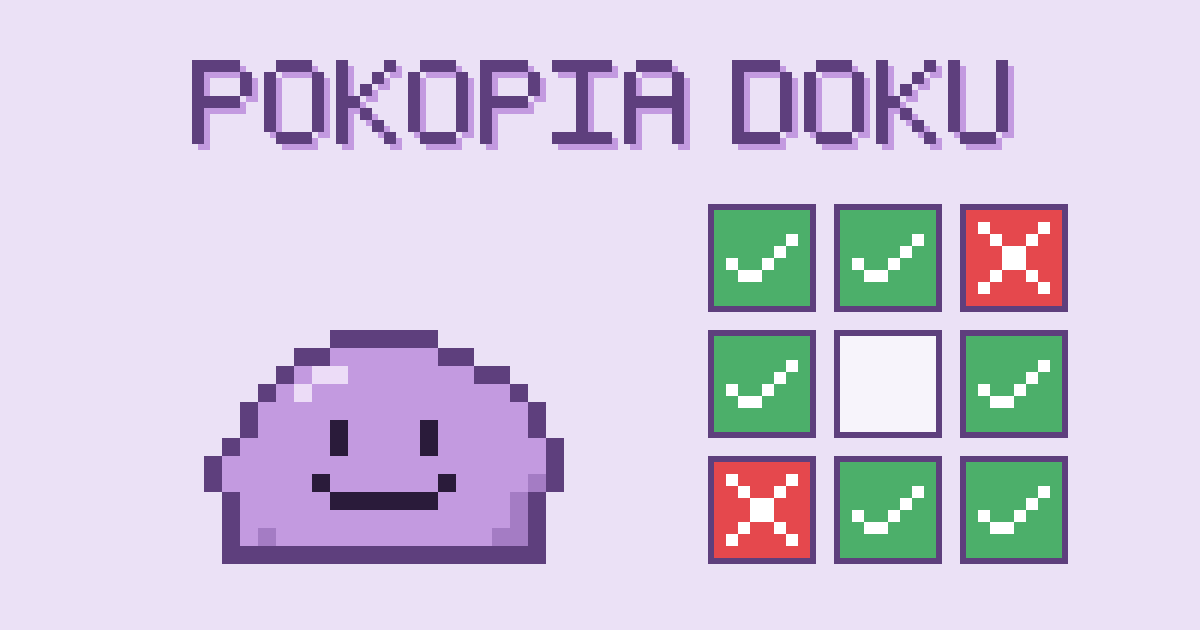
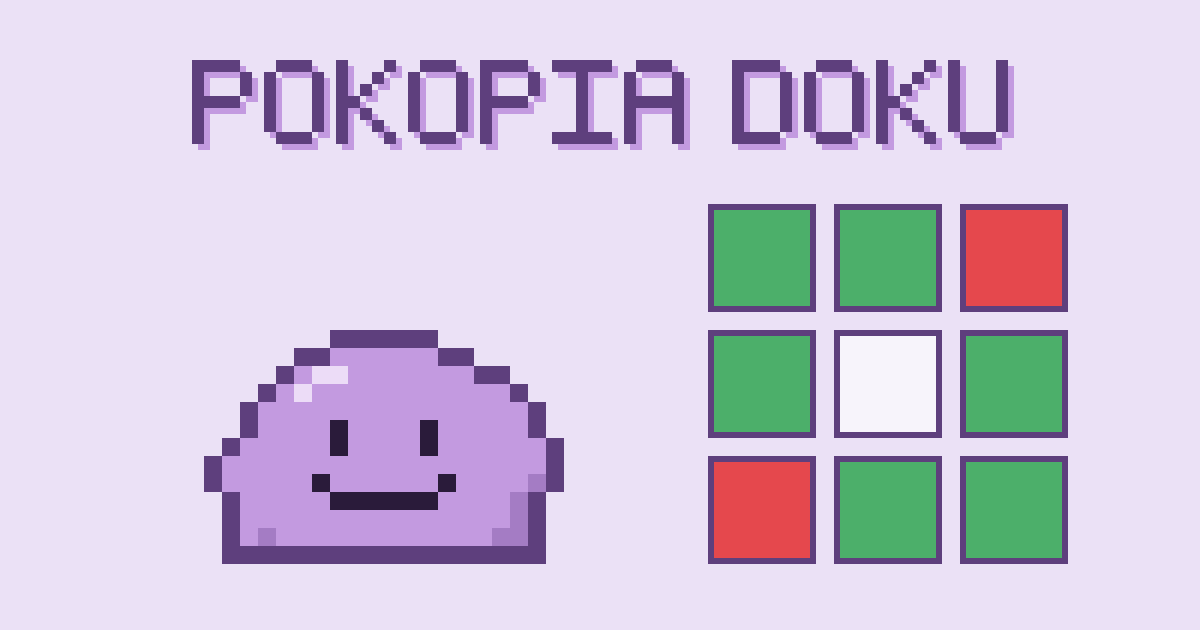
Pokopia Doku: use plain green and red boxes for results
The share text uses 🟩/🟥/⬜ instead of ✅/❌/⬜, and the preview card's
board drops the check and X marks to match.

diff --git a/pokopia-doku/script.js b/pokopia-doku/script.js
@@ -464,7 +464,7 @@ const state = {
     difficulty: "medium",
     grid: null,
     cells: Array(9).fill(null),
-    missed: Array(9).fill(false), // squares with a wrong guess (shared as ❌ unless later solved)
+    missed: Array(9).fill(false), // squares with a wrong guess (shared as 🟥 unless later solved)
     guessesLeft: null,
     gaveUp: false,
     hintsUsed: 0,
@@ -1028,8 +1028,8 @@ function shareText() {
     const title = state.mode === "daily" ? `Pokopia Doku · ${formatDate(state.date)}` : "Pokopia Doku · Unlimited";
     const hints = state.hintsUsed ? ` 💡${state.hintsUsed}` : "";
     const theme = state.grid.theme ? `\nTheme: ${state.grid.theme.name}` : "";
-    // ✅ solved, ❌ guessed wrong and never solved, ⬜ never tried.
-    const emoji = (i) => (state.cells[i] ? "✅" : state.missed[i] ? "❌" : "⬜");
+    // 🟩 solved, 🟥 guessed wrong and never solved, ⬜ never tried.
+    const emoji = (i) => (state.cells[i] ? "🟩" : state.missed[i] ? "🟥" : "⬜");
     const lines = [0, 1, 2].map((r) => [0, 1, 2].map((col) => emoji(r * 3 + col)).join(""));
     return `${title} (${c.label}) — ${filledCount()}/9${hints}${theme}\n${lines.join("\n")}\n${location.origin}${location.pathname}`;
 }
